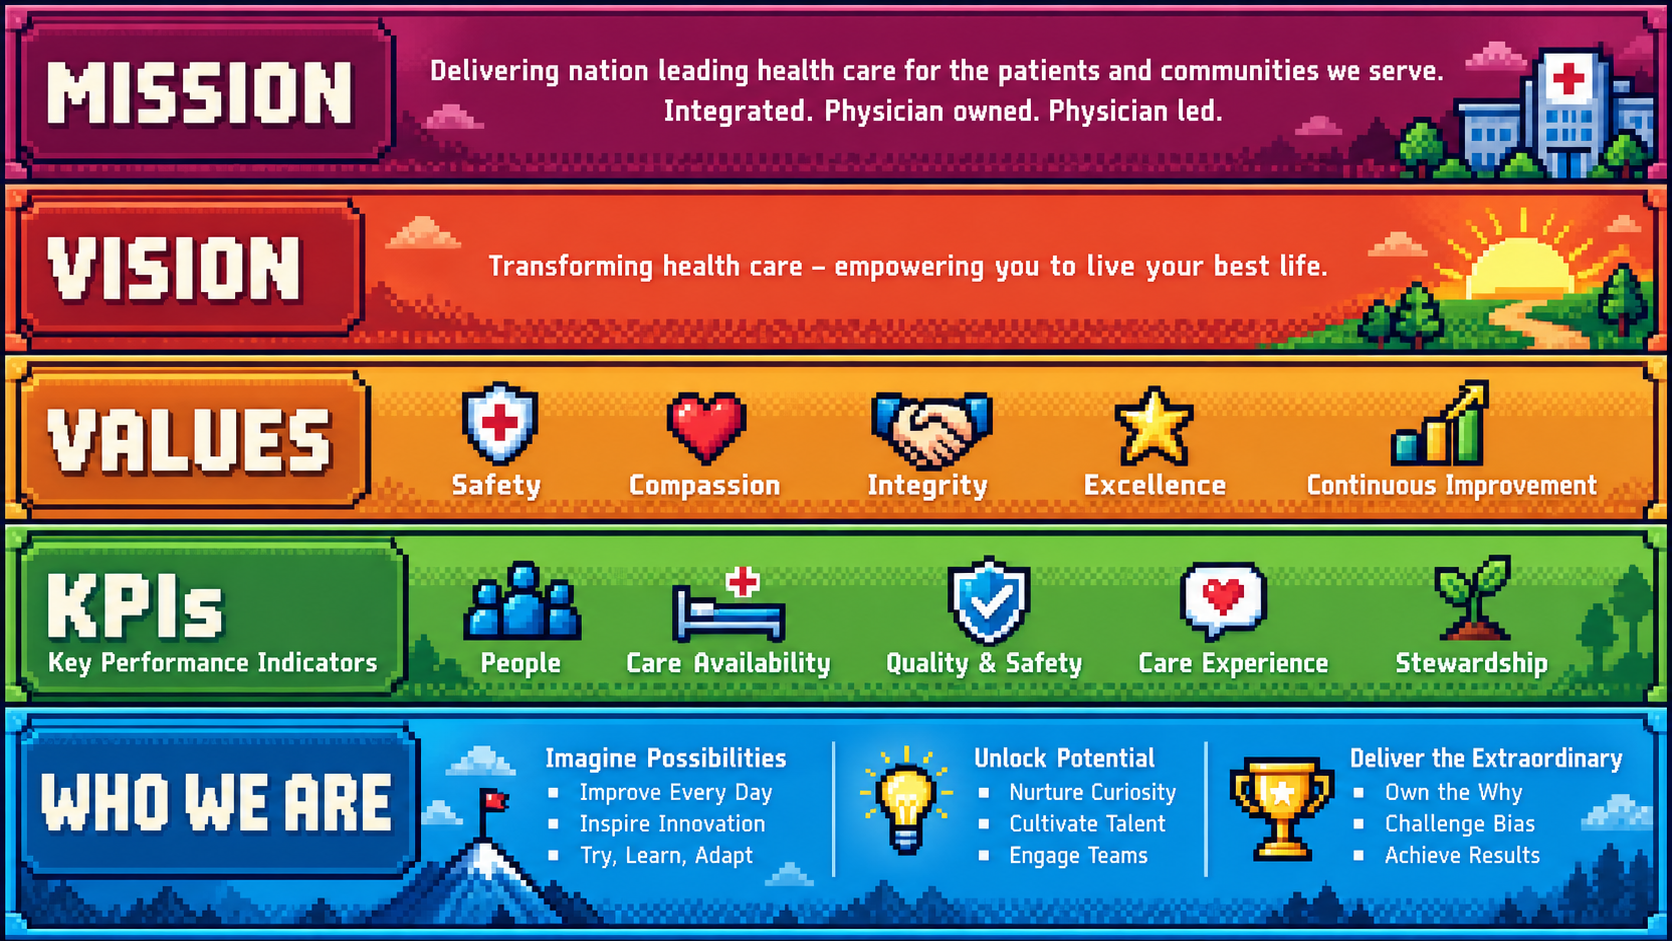
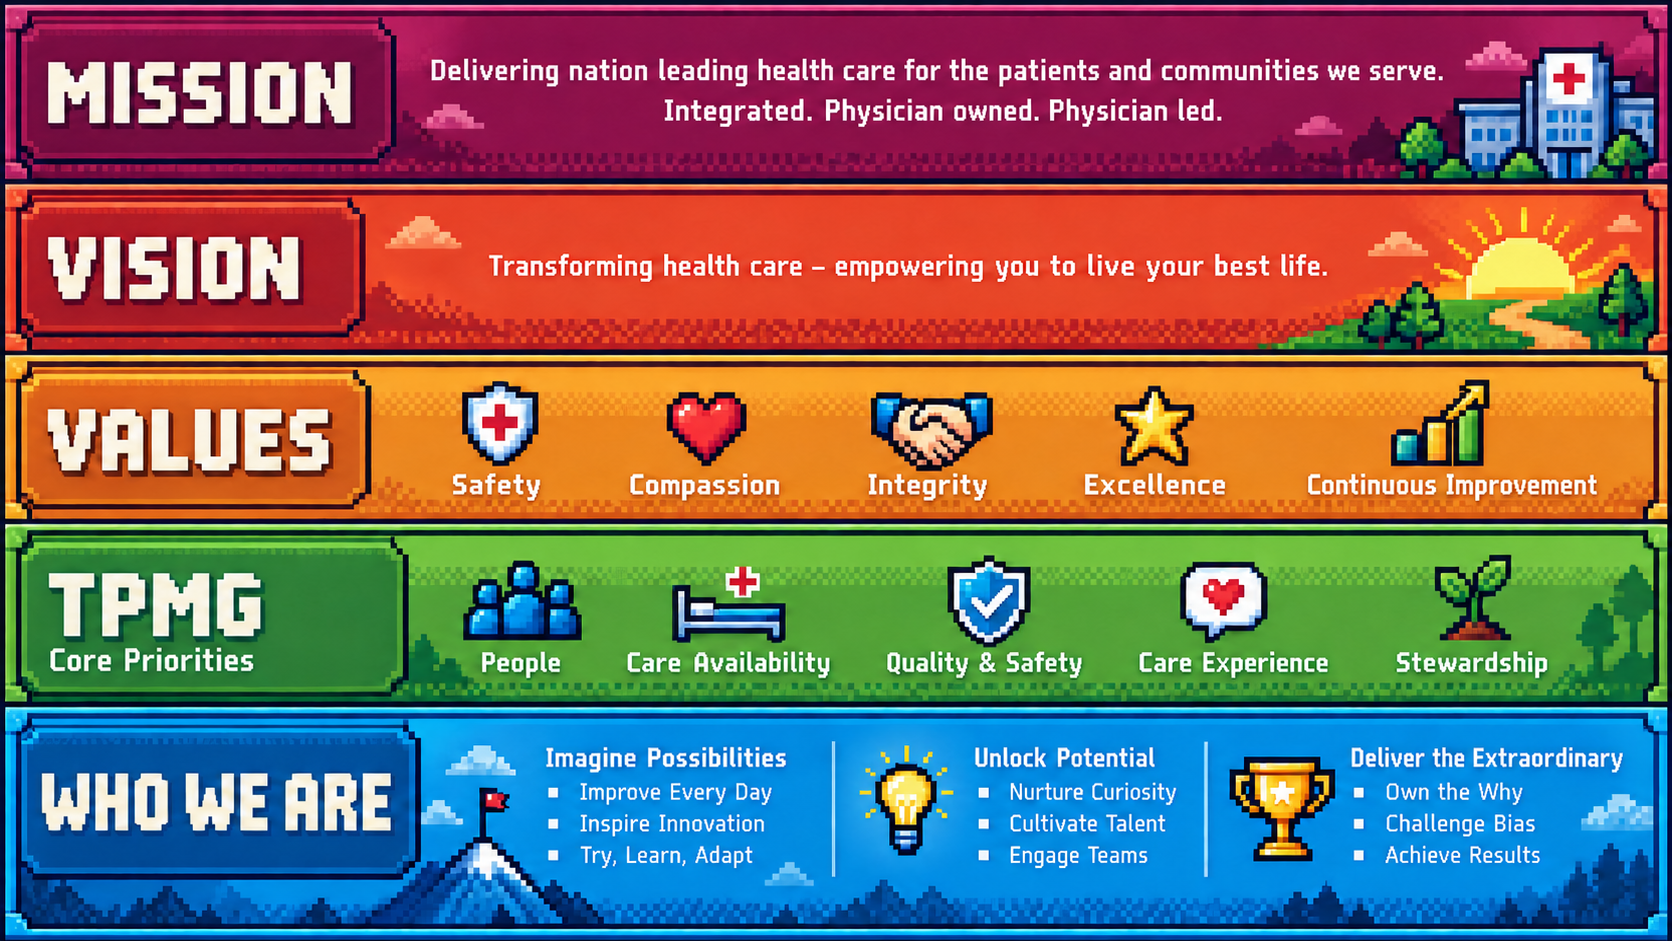
Rename KPI poster section to TPMG core priorities

diff --git a/app/QuestExperience.tsx b/app/QuestExperience.tsx
@@ -1997,7 +1997,7 @@ export function QuestExperience() {
       <aside id="dsa-way-overview" className={`brand-drawer ${brandPanelOpen ? "is-open" : ""}`} aria-hidden={!brandPanelOpen} aria-label="DSA Way mission, vision, values, and priorities">
         <button className="brand-drawer-close" type="button" onClick={closeBrandPanel} disabled={!brandPanelOpen} tabIndex={brandPanelOpen ? 0 : -1} aria-label="Close the DSA Way overview">×</button>
         <figure>
-          {/* Supplied mission, vision, values, KPI, and identity artwork. */}
+          {/* Supplied mission, vision, values, TPMG core priorities, and identity artwork. */}
           {/* eslint-disable-next-line @next/next/no-img-element */}
           <img src="branding/dsa-way-overview.png" alt="" width="1672" height="941" />
         </figure>
